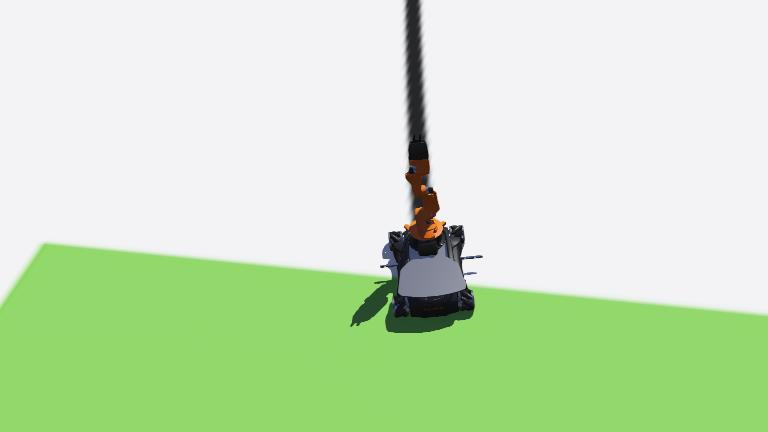
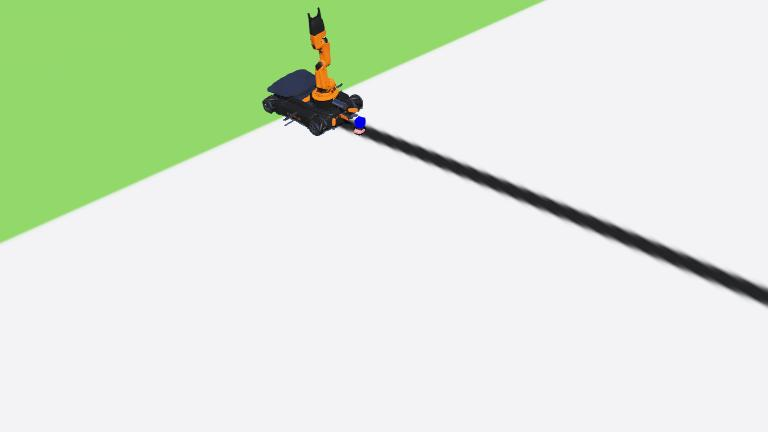
pickup cube

diff --git a/maze_solver/controllers/hrayr/hrayr.py b/maze_solver/controllers/hrayr/hrayr.py
@@ -244,14 +244,163 @@ def backward(time):
         wheel.setVelocity(-7.0)  # Adjust max velocity as needed
     robot.step(time * timestep)
 
+  
+  
+  
+  
+  
+  
     
 ######################################################################################    
+# THE BOX CODE
 
+#! Initialize arm motors.
+armMotors = []
+armMotors.append(robot.getDevice("arm1"))
+armMotors.append(robot.getDevice("arm2"))
+armMotors.append(robot.getDevice("arm3"))
+armMotors.append(robot.getDevice("arm4"))
+armMotors.append(robot.getDevice("arm5"))
+# Set the maximum motor velocity.
+armMotors[0].setVelocity(1.5) # maxVelocity = 1.5
+armMotors[1].setVelocity(1.5)
+armMotors[2].setVelocity(1.5)
+armMotors[3].setVelocity(0.5)
+armMotors[4].setVelocity(1.5)
+
+#! Initialize arm position sensors.
+# These sensors can be used to get the current 
+# joint position and monitor the joint movements.
+armPositionSensors = []
+armPositionSensors.append(robot.getDevice("arm1sensor"))
+armPositionSensors.append(robot.getDevice("arm2sensor"))
+armPositionSensors.append(robot.getDevice("arm3sensor"))
+armPositionSensors.append(robot.getDevice("arm4sensor"))
+armPositionSensors.append(robot.getDevice("arm5sensor"))
+for sensor in armPositionSensors:
+    sensor.enable(timestep)
+
+#! Initialize gripper motors.
+finger1 = robot.getDevice("finger::left")
+finger2 = robot.getDevice("finger::right")
+# Set the maximum motor velocity.
+finger1.setVelocity(1.5)
+finger2.setVelocity(1.5) # 0.03
+# Read the miminum and maximum position of the gripper motors.
+fingerMinPosition = finger1.getMinPosition()
+fingerMaxPosition = finger1.getMaxPosition()
+
+#! Generic forward motion function
+def forward(time):
+    for wheel in wheels:
+        wheel.setVelocity(7.0) # maxVelocity = 14.81
+    robot.step(time * timestep)
+
+def backward(time):
+    for wheel in wheels:
+        wheel.setVelocity(-7.0) # maxVelocity = 14.81
+    robot.step(time * timestep)
+
+#! Generic stop function
+def halt():
+    for wheel in wheels:
+        wheel.setVelocity(0.0)
+
+def fold_arms():
+    armMotors[0].setPosition(-2.9)
+    armMotors[1].setPosition(1.5)
+    armMotors[2].setPosition(-2.6)
+    armMotors[3].setPosition(1.7)
+    armMotors[4].setPosition(0)
+
+def stretch_arms():
+    armMotors[0].setPosition(2.9)
+    armMotors[1].setPosition(-1.0)
+    armMotors[2].setPosition(2.5)
+    armMotors[3].setPosition(-1.7)
+    armMotors[4].setPosition(0)
+
+def turn_around(time):
+#TODO: robot.step(70 * timestep) - produces a 90 degrees turn
+    wheels[0].setVelocity(14)
+    wheels[1].setVelocity(-14)
+    wheels[2].setVelocity(14)
+    wheels[3].setVelocity(-14)
+    robot.step(time * timestep)
+    # forward()
+
+def pick_up():
+    armMotors[1].setPosition(-1.1)
+    armMotors[2].setPosition(-0.9)
+    armMotors[3].setPosition(-1.1)
+    finger1.setPosition(fingerMaxPosition)
+    finger2.setPosition(fingerMaxPosition)
+
+    # Monitor the arm joint position to 
+    # detect when the motion is completed.
+    while robot.step(timestep) != -1:
+        if abs(armPositionSensors[3].getValue() - (-1.2)) < 0.1:
+        # Motion completed.
+            break
+    print("CLOSING GRIPPER")
+    finger1.setPosition(0.014)     # Close gripper.
+    finger2.setPosition(0.014)
+    print("GRIP CLOSED")
+    robot.step(50 * timestep)    # Wait until the gripper is closed.
+    armMotors[1].setPosition(0)    # Lift arm.
+    # Wait until the arm is lifted.
+    # robot.step(200 * timestep)
+    
+    
+def open_grippers():
+    finger1.setPosition(fingerMaxPosition)
+    finger2.setPosition(fingerMaxPosition)
+    robot.step(70 * timestep)
+
+def drop():
+    armMotors[1].setPosition(0.5)
+    armMotors[3].setPosition(1.3)
+    armMotors[2].setPosition(1)
+    while robot.step(timestep) != -1:
+
+        if abs(armPositionSensors[3].getValue() - (-1.2)) > 2.5:
+        # Motion completed.
+            print("READY TO OPEN GRIPPERS")
+            break
+
+def hand_up():
+    armMotors[0].setPosition(0)
+    armMotors[1].setPosition(0)
+    armMotors[2].setPosition(0)
+    armMotors[3].setPosition(0)
+    armMotors[4].setPosition(0)
+    finger1.setPosition(fingerMaxPosition)
+    finger2.setPosition(fingerMaxPosition)
+
+
+
+
+
+
+
+
+
+
+#######################################################################################
 # Main robot control loop
 while robot.step(timestep) != -1:
     if maze_solved:
         print("Exiting the program.")
         break  # Exit the loop if the maze is solved
     
-    follow_line_pid()  # Follow the line
-   
+    # follow_line_pid()  
+    # forward(520)
+    halt()
+    pick_up()
+    forward(300)
+    drop()
+    open_grippers()
+    hand_up()
+    break
+
+ 
